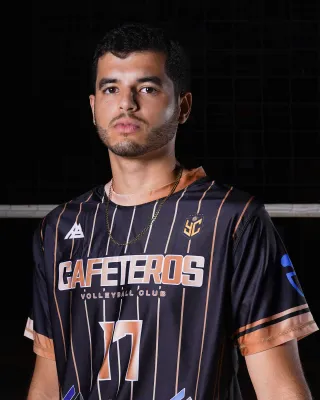
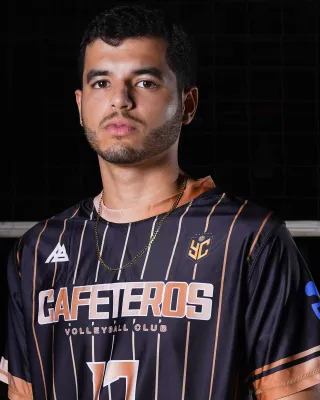
Fix Michael De La Cruz photo crop and set jersey #17

diff --git a/src/data/roster.ts b/src/data/roster.ts
@@ -52,7 +52,7 @@ export const roster: Player[] = [
   { number: '3', name: 'Danni Rivera', position: 'Esquina', photo: photo('daniel-rivera.webp') },
   { number: '?', name: 'Juanqui Rivas', position: 'Liberó' },
   { number: '?', name: 'Heider Banguera', position: 'Esquina' },
-  { number: '?', name: 'Michael De La Cruz', position: 'Central', photo: photo('michael-de-la-cruz.webp') },
+  { number: '17', name: 'Michael De La Cruz', position: 'Central', photo: photo('michael-de-la-cruz.webp') },
   { number: '?', name: 'James Cintrón', position: 'Central' },
   { number: '?', name: 'Gregory Torres', position: 'Opuesto' },
 ];
